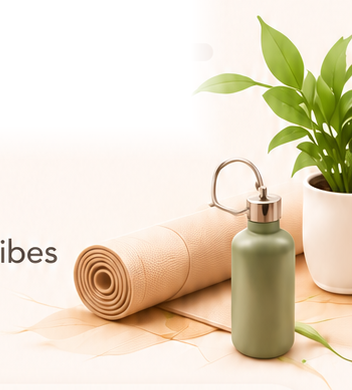
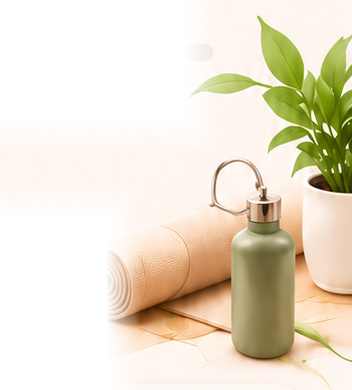
lifestyle Activity/Sleep/Food: distribute cards to fill (hero no longer blocked), clean hero text artifacts, compact cards

diff --git a/src/routes/lifestyle.tsx b/src/routes/lifestyle.tsx
@@ -174,7 +174,7 @@ function AboutYouWarm({ a, set, onBack, onNext, canNext }: { a: Record<string, a
 const WATER4 = ["<1.5", "1.5–2", "2–2.5", ">2.5"];
 const FOOD_ICON: Record<string, string> = { Veg: "eco", Vegan: "favorite", Eggetarian: "egg_alt", "Non-veg": "set_meal" };
 const ACT_ICON = (id: string) => id === "sedentary" ? "chair" : id === "light" ? "directions_walk" : id === "active" ? "fitness_center" : "bolt";
-const WCARD = "rounded-[20px] border p-3.5";
+const WCARD = "rounded-[20px] border p-3";
 const WCS = { background: "#FFFDF9", borderColor: "#F0E6D8", boxShadow: "0 1px 6px rgba(120,80,40,0.05)" } as const;
 function warmLbl(t: string) { return <span className="text-[12.5px] font-bold tracking-wide" style={{ color: "#2B211B" }}>{t}</span>; }
 function warmPills(opts: string[], val: string, onPick: (v: string) => void) {
@@ -195,11 +195,11 @@ function WarmShell({ progress, hero, heroW = 116, title, subtitle, children, onB
       </header>
       <main className="relative mx-auto flex min-h-0 w-full max-w-md flex-1 flex-col overflow-y-auto px-5 pt-3">
         {hero && <img src={hero} alt="" className="pointer-events-none absolute right-[4px] top-[2px] z-0" style={{ width: heroW }} onError={(e) => { e.currentTarget.style.display = "none"; }} />}
-        <div className="relative z-10 mb-3 flex flex-col" style={{ maxWidth: 200, minHeight: 80 }}>
+        <div className="relative z-10 mb-3 flex shrink-0 flex-col" style={{ maxWidth: 192, minHeight: 130 }}>
           <h1 className="mb-1 text-[29px] font-bold leading-[1.05]" style={{ ...PLAYFAIR, color: "#2B211B" }}>{title}</h1>
           <p className="text-[13px] leading-[1.4]" style={{ color: "#6B625B" }}>{subtitle}</p>
         </div>
-        <div className="relative z-10 flex flex-col gap-2.5 pb-2">{children}</div>
+        <div className="relative z-10 flex min-h-0 flex-1 flex-col justify-between gap-2 pb-2">{children}</div>
       </main>
       <div className="mx-auto w-full max-w-md shrink-0 px-5 pt-2">
         <button onClick={onNext} disabled={nextDisabled} className="flex w-full items-center justify-center gap-2 rounded-[26px] px-6 py-3.5 text-[15px] font-semibold text-white shadow-[0_6px_16px_-8px_rgba(110,70,45,0.55)] transition active:scale-[0.99] disabled:opacity-40" style={{ background: "#A26235" }}>Next <MS name="arrow_forward" size={18} /></button>
@@ -214,9 +214,9 @@ function WarmShell({ progress, hero, heroW = 116, title, subtitle, children, onB
 }
 function ActivityWarm({ a, set, onBack, onNext, canNext }: { a: Record<string, any>; set: (k: string, v: any) => void; onBack: () => void; onNext: () => void; canNext: boolean }) {
   return (
-    <WarmShell progress={50} hero="/images/aboutyou/activity-hero.png" heroW={158} title="Activity Level" subtitle="Pick the option that best describes your typical day." onBack={onBack} onNext={onNext} nextDisabled={!canNext}>
+    <WarmShell progress={50} hero="/images/aboutyou/activity-hero.png" heroW={132} title="Activity Level" subtitle="Pick the option that best describes your typical day." onBack={onBack} onNext={onNext} nextDisabled={!canNext}>
       {ACTIVITY.map((x) => { const on = a.activity === x.id; return (
-        <button type="button" key={x.id} onClick={() => set("activity", x.id)} className="rounded-[20px] border p-3.5 text-left transition active:scale-[0.99]" style={on ? { background: "#FFFDF9", borderColor: "#E4C5A6", boxShadow: "0 3px 12px -5px rgba(162,98,53,0.35)" } : WCS}>
+        <button type="button" key={x.id} onClick={() => set("activity", x.id)} className="rounded-[20px] border p-3 text-left transition active:scale-[0.99]" style={on ? { background: "#FFFDF9", borderColor: "#E4C5A6", boxShadow: "0 3px 12px -5px rgba(162,98,53,0.35)" } : WCS}>
           <div className="flex items-start gap-3">
             <span className="flex h-11 w-11 shrink-0 items-center justify-center rounded-full" style={{ background: "#FBEAD6", color: "#A26235" }}><MS name={ACT_ICON(x.id)} size={22} /></span>
             <div className="min-w-0 flex-1">
@@ -232,7 +232,7 @@ function ActivityWarm({ a, set, onBack, onNext, canNext }: { a: Record<string, a
 }
 function SleepWarm({ a, set, onBack, onNext }: { a: Record<string, any>; set: (k: string, v: any) => void; onBack: () => void; onNext: () => void }) {
   return (
-    <WarmShell progress={75} hero="/images/aboutyou/sleep-hero.png" heroW={172} title="Sleep" subtitle="Help us calibrate your circadian baseline and nightly recovery." onBack={onBack} onNext={onNext}>
+    <WarmShell progress={75} hero="/images/aboutyou/sleep-hero.png" heroW={152} title="Sleep" subtitle="Help us calibrate your circadian baseline and nightly recovery." onBack={onBack} onNext={onNext}>
       <div className={WCARD} style={WCS}>
         <div className="flex items-center gap-3">{wring("bedtime")}{warmLbl("BEDTIME")}<span className="ml-auto text-[11px]" style={{ color: "#8A7B6C" }}>Usual window</span></div>
         <div className="mt-2.5">{warmSelect(a.bedtime, (v) => set("bedtime", v), BEDTIME, "Select…")}</div>
@@ -252,7 +252,7 @@ function SleepWarm({ a, set, onBack, onNext }: { a: Record<string, any>; set: (k
 }
 function FoodWarm({ a, set, onBack, onNext }: { a: Record<string, any>; set: (k: string, v: any) => void; onBack: () => void; onNext: () => void }) {
   return (
-    <WarmShell progress={100} hero="/images/aboutyou/food-hero.png" heroW={164} title="Food & Meals" subtitle="Choose your preferred food style and meal timings." onBack={onBack} onNext={onNext}>
+    <WarmShell progress={100} hero="/images/aboutyou/food-hero.png" heroW={146} title="Food & Meals" subtitle="Choose your preferred food style and meal timings." onBack={onBack} onNext={onNext}>
       <div className={WCARD} style={WCS}>
         {warmLbl("FOOD STYLE")}
         <div className="mt-2.5 grid grid-cols-4 gap-2">{FOOD_STYLE.map((s) => { const on = a.foodstyle === s; return <button type="button" key={s} onClick={() => set("foodstyle", s)} className="flex flex-col items-center gap-1 rounded-[16px] py-2.5 transition" style={on ? { background: "#A26235", color: "#fff" } : { background: "#F4ECE2", color: "#6B625B" }}><MS name={FOOD_ICON[s] ?? "restaurant"} size={18} style={{ color: on ? "#fff" : "#A26235" }} /><span className="text-[11.5px] font-semibold">{s}</span></button>; })}</div>
